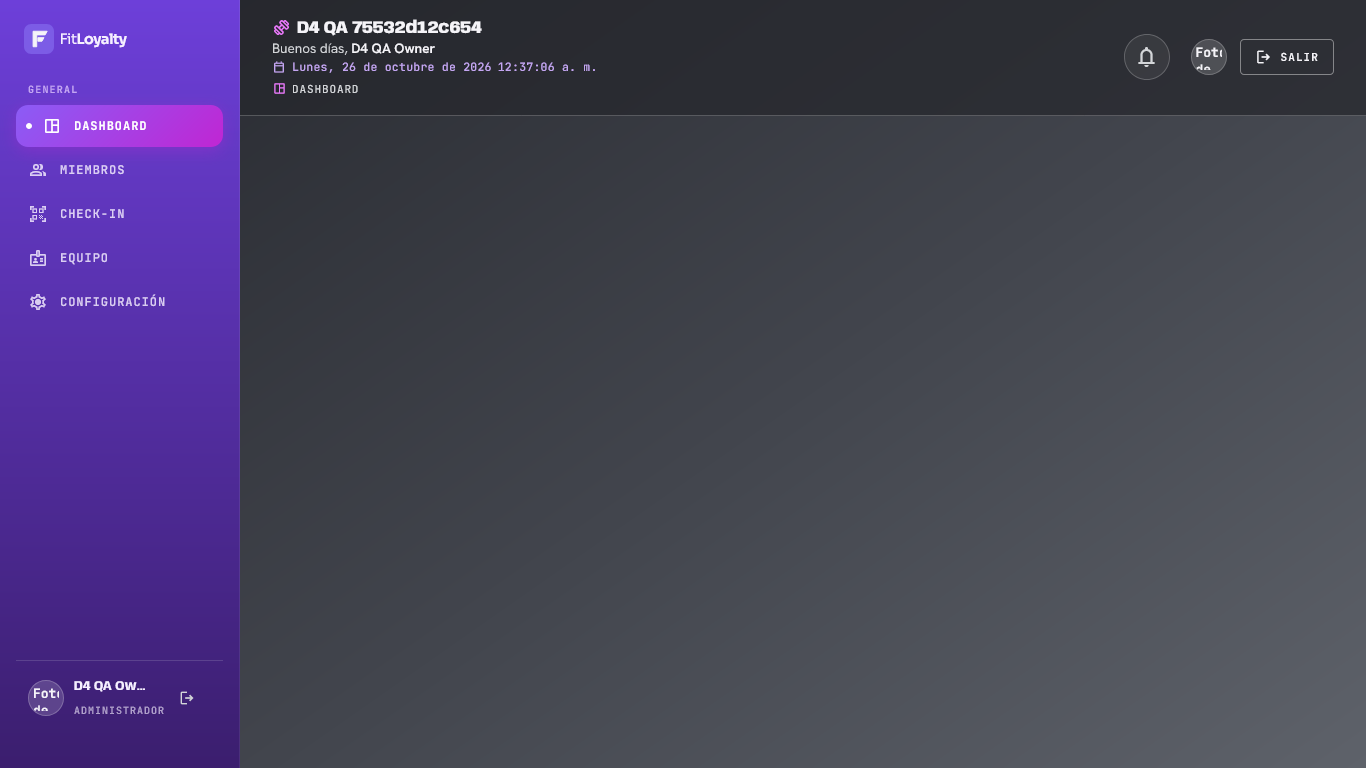
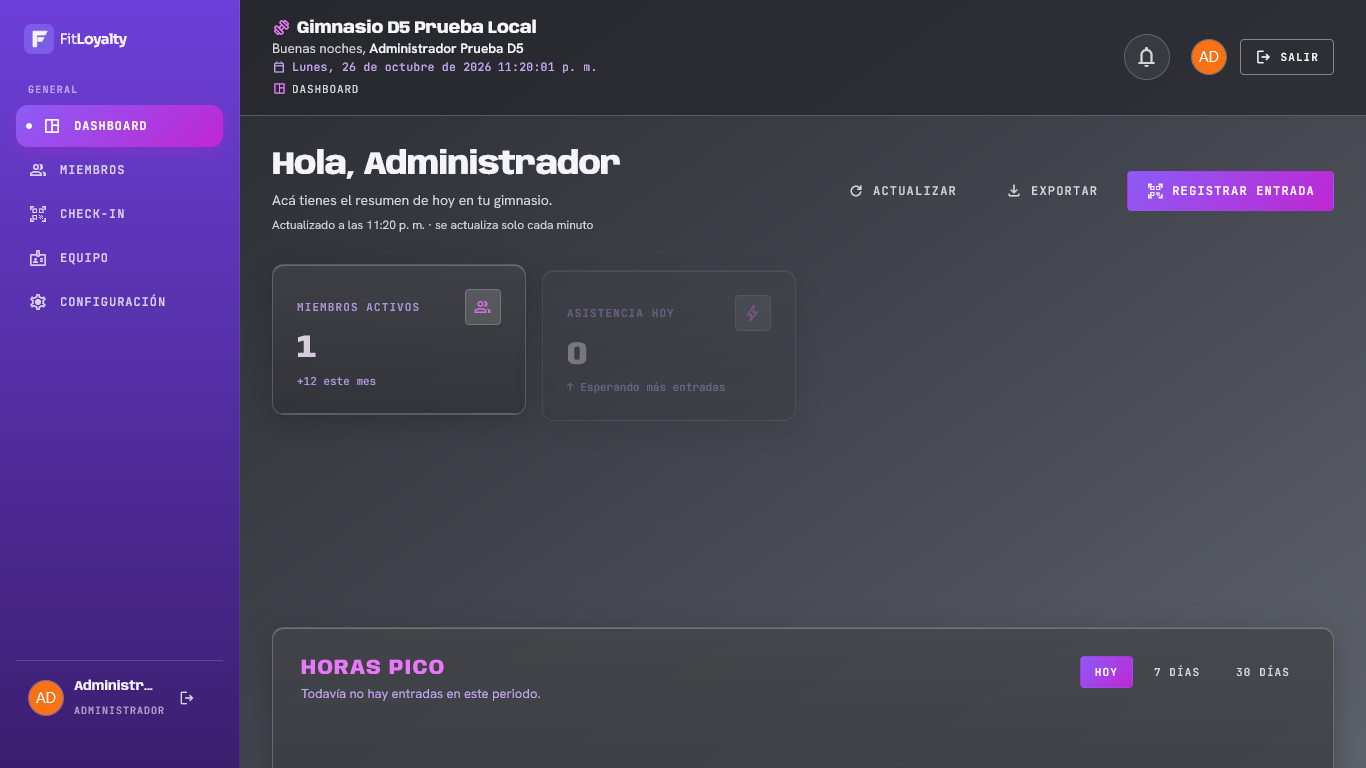
docs(D4): complete Firefox flow evidence

diff --git a/docs/evidencias/rqnf-06-navegadores.md b/docs/evidencias/rqnf-06-navegadores.md
@@ -16,17 +16,18 @@
 
 ## Alcance ejecutado
 
-Se inició el frontend y el backend local con una cuenta y datos sintéticos.
-En Chrome y Edge se recorrieron el inicio de sesión, dashboard, listado y
-edición de miembros, check-in manual y por código QR, configuración y
-formulario de alta. El backend tenía aplicadas las migraciones 009–014; se
-deshabilitaron el scheduler y WhatsApp para evitar tareas programadas y envíos
-externos durante la prueba.
+Se inició el frontend y el backend local contra la base aislada
+`fitloyalty_d5_test_20261026`, con cuenta y datos sintéticos. En los tres
+navegadores se recorrieron login, dashboard, listado y edición de miembros,
+check-in manual y por código QR, configuración y formulario de alta. Para
+evitar tareas programadas y envíos externos, se deshabilitaron el scheduler y
+WhatsApp. No se usó producción.
 
-Las capturas de todas las pantallas se tomaron a **1366 × 768**. En Firefox
-solo se completó el recorrido parcial de portada, login, dashboard, listado
-de miembros y apertura del formulario de alta; no se verificaron edición,
-check-in ni configuración.
+Firefox se probó en la versión 157.0.1. Se guardó la edición del miembro de
+prueba, se verificó en la base que los check-in quedaran registrados con los
+métodos `MANUAL` y `QR`, y luego se eliminaron esos registros sintéticos. La
+configuración se guardó y la interfaz mostró confirmación. Las capturas
+actualizadas se tomaron y verificaron a **1366 × 768**.
 
 ## Resultados
 
@@ -34,7 +35,7 @@ check-in ni configuración.
 |---|---|---|---|---|---|---|---|
 | Chrome | 155.0.8059.85 | Pasa | Pasa | Pasa | Pasa | Pasa (1366 px) | Sin errores |
 | Edge | 155.0.4283.62 | Pasa | Pasa | Pasa | Pasa | Pasa (1366 px) | Sin errores |
-| Firefox | 157.0 | Pasa en recorrido parcial | Lista y formulario visibles; edición no probada | No probado | No probado | Pasa en pantallas capturadas (1366 px) | Sin errores reportados en el recorrido parcial |
+| Firefox | 157.0.1 | Pasa | Pasa | Pasa; métodos `MANUAL` y `QR` verificados en PostgreSQL local | Pasa; guardado confirmado | Pasa visualmente en las capturas (1366 px) | Flujos API confirmados; consola JS no instrumentada |
 
 El alta se envió desde la interfaz y confirmó creación en Chrome durante una
 prueba diagnóstica aislada. En la corrida comparativa, el alta se capturó en
@@ -45,9 +46,11 @@ documento y por código QR. El modo QR se validó pegando un código de prueba;
 no se verificó el uso de una cámara física.
 
 La app puede consultar `trial-status` antes del login y recibir un `401`
-esperado mientras no hay sesión. Después del login no hubo errores de API ni
-de JavaScript en las corridas completas de Chrome y Edge. Los registros y la
-cuenta de prueba se eliminaron al finalizar.
+esperado mientras no hay sesión. No se observaron errores bloqueantes durante
+los recorridos autenticados de Firefox; en ese navegador se verificaron las
+escrituras de edición y check-in en la base local. No se recopiló su consola
+JavaScript. Los check-in sintéticos se eliminaron al finalizar; la base de
+pruebas y su cuenta sintética se conservaron para la sesión D5 local.
 
 ### Regresión encontrada y corregida
 
@@ -68,12 +71,10 @@ verificó allí.
 |---|---|
 | Chrome | [Portada](./capturas/rqnf-06/chrome-home.png) · [Login](./capturas/rqnf-06/chrome-login.png) · [Dashboard](./capturas/rqnf-06/chrome-dashboard.png) · [Miembros](./capturas/rqnf-06/chrome-miembros.png) · [Edición](./capturas/rqnf-06/chrome-edicion-miembro.png) · [Check-in manual](./capturas/rqnf-06/chrome-checkin-manual.png) · [Check-in QR](./capturas/rqnf-06/chrome-checkin-qr.png) · [Configuración](./capturas/rqnf-06/chrome-configuracion.png) · [Alta](./capturas/rqnf-06/chrome-alta-miembro.png) |
 | Edge | [Portada](./capturas/rqnf-06/edge-home.png) · [Login](./capturas/rqnf-06/edge-login.png) · [Dashboard](./capturas/rqnf-06/edge-dashboard.png) · [Miembros](./capturas/rqnf-06/edge-miembros.png) · [Edición](./capturas/rqnf-06/edge-edicion-miembro.png) · [Check-in manual](./capturas/rqnf-06/edge-checkin-manual.png) · [Check-in QR](./capturas/rqnf-06/edge-checkin-qr.png) · [Configuración](./capturas/rqnf-06/edge-configuracion.png) · [Alta](./capturas/rqnf-06/edge-alta-miembro.png) |
-| Firefox | [Portada](./capturas/rqnf-06/firefox-home.png) · [Login](./capturas/rqnf-06/firefox-login.png) · [Dashboard](./capturas/rqnf-06/firefox-dashboard.png) · [Miembros](./capturas/rqnf-06/firefox-miembros.png) · [Alta](./capturas/rqnf-06/firefox-alta-miembro.png) |
+| Firefox | [Portada](./capturas/rqnf-06/firefox-home.png) · [Login](./capturas/rqnf-06/firefox-login.png) · [Dashboard](./capturas/rqnf-06/firefox-dashboard.png) · [Miembros](./capturas/rqnf-06/firefox-miembros.png) · [Edición](./capturas/rqnf-06/firefox-edicion-miembro.png) · [Check-in manual](./capturas/rqnf-06/firefox-checkin-manual.png) · [Check-in QR](./capturas/rqnf-06/firefox-checkin-qr.png) · [Configuración](./capturas/rqnf-06/firefox-configuracion.png) · [Alta](./capturas/rqnf-06/firefox-alta-miembro.png) |
 
 ## Limitaciones pendientes
 
-- D4 **no está completo**: faltan los flujos de edición, check-in manual y QR,
-  y configuración en Firefox.
 - Se probó una sola versión mayor por navegador. El requisito pide las dos
   últimas; por tanto, también falta probar la versión mayor anterior de cada
   navegador. El objetivo de compilación de Vite no reemplaza esas pruebas
@@ -83,7 +84,7 @@ verificó allí.
 
 ## Veredicto
 
-**Parcial.** Chrome y Edge completaron los flujos principales con backend
-activo a 1366 × 768. Firefox tiene evidencia parcial y las versiones
-anteriores no se ejecutaron. No marcar RQNF-06 como Implementado hasta cubrir
-esas pruebas pendientes.
+**Parcial.** Los flujos principales se completaron en Chrome 155, Edge 155 y
+Firefox 157.0.1 a 1366 × 768. No se probaron las versiones mayores anteriores
+de los navegadores ni la cámara física para el QR. No marcar RQNF-06 como
+Implementado hasta resolver esas limitaciones.
